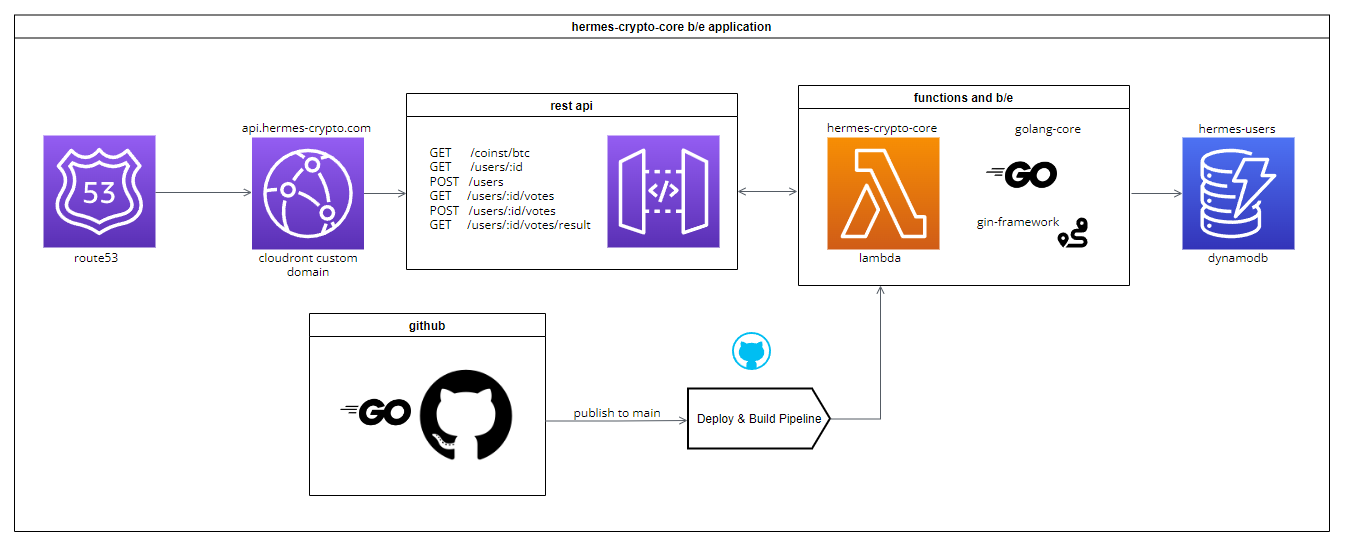
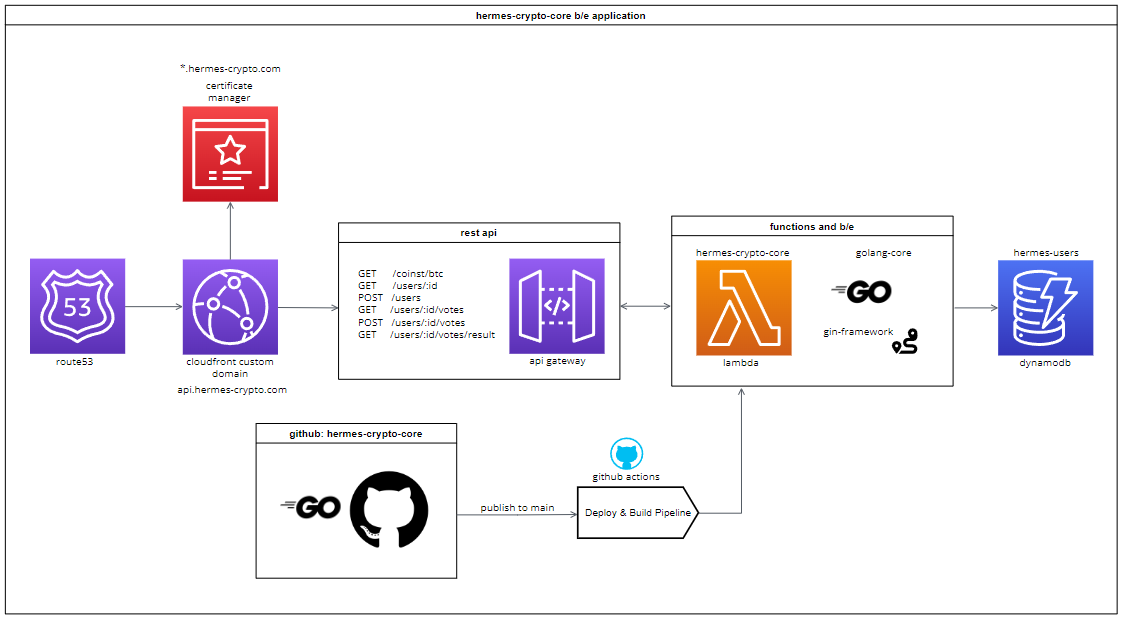
Feature/diagram updates and coin replacement (#6)
* Added the new diagram.
* Updated readme and docs.
* Some updates to the coins API
* Add fallback on API
* Added fallback coin method

diff --git a/internal/handlers/coins/coins.go b/internal/handlers/coins/coins.go
@@ -13,13 +13,30 @@ import (
 
 // GetCurrentBTCCoinValue handles GET requests to retrieve the value for the current Bitcoin coin
 func GetCurrentBTCCoinValueInUSD(c *gin.Context) {
-	currentExchangeRate, err := coin.GetCurrentExchangeRate()
+	currentExchangeRate, err := coin.BinanceGetCurrentExchangeRate()
 	if err != nil {
-		c.JSON(http.StatusFailedDependency, gin.H{"error": "Could not determine current exchange rate", "message": err.Error()})
-		return
+		geckoExchangeRate, err := coin.GeckoGetCurrentExchangeRate()
+		if err != nil {
+			c.JSON(http.StatusFailedDependency, gin.H{"error": "Could not determine current exchange rate", "message": err.Error()})
+			return
+		}
+
+		coinResult := models.CoinResult{
+			Coin:              con.COIN_TYPE_BTC,
+			CoinValue:         *geckoExchangeRate,
+			CoinValueCurrency: con.COIN_CURRENCY_USD,
+			QueryTime:         models.TimestampTime{Time: time.Now()},
+		}
+
+		c.JSON(http.StatusOK, coinResult)
 	}
 
-	coinResult := models.CoinResult{Coin: con.COIN_TYPE_BTC, CoinValue: *currentExchangeRate, CoinValueCurrency: con.COIN_CURRENCY_USD, QueryTime: models.TimestampTime{Time: time.Now()}}
+	coinResult := models.CoinResult{
+		Coin:              con.COIN_TYPE_BTC,
+		CoinValue:         *currentExchangeRate,
+		CoinValueCurrency: con.COIN_CURRENCY_USD,
+		QueryTime:         models.TimestampTime{Time: time.Now()},
+	}
 
 	c.JSON(http.StatusOK, coinResult)
 }

diff --git a/internal/handlers/users/users_test.go b/internal/handlers/users/users_test.go
@@ -35,6 +35,9 @@ func (m *MockDB) GetUserByID(id string) (*models.User, error) {
 
 func (m *MockDB) GetUserByEmail(email string) (*models.User, error) {
 	args := m.Called(email)
+	if args.Get(0) == nil {
+		return nil, nil
+	}
 	return args.Get(0).(*models.User), args.Error(1)
 }
 
@@ -99,11 +102,11 @@ func TestGetUser(t *testing.T) {
 	assert.Equal(t, *mockUser, response)
 }
 
-func TestCreateUser(t *testing.T) {
+func TestCreateExistingUserByEmail(t *testing.T) {
 	r, mockDB := setupTestRouter()
 	r.POST("/users", CreateUser)
 
-	newUser := models.User{Name: "New User", Email: "test@test.com"}
+	newUser := models.User{Id: "188912334", Name: "New User", Email: "test@test.com"}
 	mockDB.On("GetUserByEmail", newUser.Email).Return(&newUser, nil)
 	mockDB.On("CreateUser", newUser).Return(&newUser, nil)
 
@@ -112,11 +115,11 @@ func TestCreateUser(t *testing.T) {
 	req, _ := http.NewRequest("POST", "/users", bytes.NewBuffer(body))
 	r.ServeHTTP(w, req)
 
-	assert.Equal(t, 201, w.Code)
+	assert.Equal(t, 200, w.Code)
 	var response models.User
 	err := json.Unmarshal(w.Body.Bytes(), &response)
 	assert.Nil(t, err)
-	assert.Equal(t, newUser, response)
+	assert.Equal(t, newUser.Id, response.Id)
 }
 
 func TestUpdateUser(t *testing.T) {

diff --git a/internal/coin/coin-binance.go b/internal/coin/coin-binance.go
@@ -1,0 +1,39 @@
+package coin
+
+import (
+	"context"
+	"fmt"
+
+	"os"
+	"strconv"
+	"strings"
+
+	"github.com/adshao/go-binance/v2"
+
+	"hermes-crypto-core/internal/models"
+)
+
+func BinanceGetCurrentExchangeRate() (*float64, error) {
+	apiKey := os.Getenv("BINANCE_API_KEY")
+	apiSecret := os.Getenv("BINANCE_SECRET_KEY")
+	client := binance.NewClient(apiKey, apiSecret)
+
+	prices, err := client.NewListPricesService().Symbol("BTCUSDT").Do(context.Background())
+	if err != nil {
+		fmt.Print("Something went wrong...")
+		return nil, models.ReturnError{ErrorMessage: "Failed to retrieve data from Binance API"}
+	}
+
+	if len(prices) > 0 {
+		priceFloat, err := strconv.ParseFloat(strings.TrimSpace(prices[0].Price), 64)
+		if err != nil {
+			return nil, fmt.Errorf("failed to parse price: %w", err)
+		}
+		fmt.Printf("BINANCE: Current BTC price: $%.2f\n", priceFloat)
+		return &priceFloat, nil
+	} else {
+		fmt.Println("No price data available")
+		zero := 0.0
+		return &zero, nil
+	}
+}

diff --git a/internal/handlers/users/users.go b/internal/handlers/users/users.go
@@ -41,16 +41,20 @@ func CreateUser(c *gin.Context) {
 		c.JSON(http.StatusBadRequest, gin.H{"error": err.Error()})
 		return
 	}
+
 	log.Printf("Checking to see if user already exists by email: %v", newUser.Email)
 	// Check if user already exists by email
 	user, err := db.DB.GetUserByEmail(newUser.Email)
 	if err != nil {
 		log.Printf("Error getting user by email: %v", err)
+		c.JSON(http.StatusInternalServerError, gin.H{"error": "Failed to check existing user"})
 	}
-	log.Printf("We continue on at this point")
+
+	log.Printf("User: %v", user)
+
 	// If user already exists, return the existing user
 	if user != nil {
-		c.JSON(http.StatusCreated, user)
+		c.JSON(http.StatusOK, user)
 		return
 	}
 	log.Printf("We have no user, thus we move")

diff --git a/internal/coin/coin-gecko.go b/internal/coin/coin-gecko.go
@@ -11,7 +11,7 @@ import (
 )
 
 // CoinGeckoService is a service that interacts with the CoinGecko API
-func GetCurrentExchangeRate() (*float64, error) {
+func GeckoGetCurrentExchangeRate() (*float64, error) {
 	apiKey := os.Getenv("GECKO_API_KEY")
 	cgClient := goingecko.NewClient(nil, apiKey)
 	defer cgClient.Close()
@@ -21,7 +21,7 @@ func GetCurrentExchangeRate() (*float64, error) {
 		fmt.Print("Something went wrong...")
 		return nil, models.ReturnError{ErrorMessage: "Failed to retrieve data from CoinGecko API"}
 	}
-	fmt.Printf("Bitcoin price is: %f$", data.MarketData.CurrentPrice.Usd)
+	fmt.Printf("GECKO: Bitcoin price is: %f$", data.MarketData.CurrentPrice.Usd)
 
 	return &data.MarketData.CurrentPrice.Usd, nil
 }

diff --git a/internal/coin/coin.go b/internal/coin/coin.go
@@ -1,0 +1,19 @@
+package coin
+
+import (
+	"hermes-crypto-core/internal/models"
+)
+
+func GetCurrentExchangeRate() (*float64, error) {
+	currentExchangeRate, err := BinanceGetCurrentExchangeRate()
+	if err != nil {
+		geckoExchangeRate, err := GeckoGetCurrentExchangeRate()
+		if err != nil {
+			return nil, models.ReturnError{ErrorMessage: "Could not determine current exchange rate"}
+		}
+
+		return geckoExchangeRate, nil
+	}
+
+	return currentExchangeRate, nil
+}

diff --git a/internal/db/db-dynamo.go b/internal/db/db-dynamo.go
@@ -185,7 +185,7 @@ func (d *dynamoDB) GetUserByID(id string) (*models.User, error) {
 	return &user, nil
 }
 
-// GetUserByID retrieves a specific user by Email
+// GetUserByEmail retrieves a specific user by Email
 func (d *dynamoDB) GetUserByEmail(email string) (*models.User, error) {
 	input := &dynamodb.GetItemInput{
 		TableName: aws.String(tableName),

diff --git a/README.md b/README.md
@@ -23,18 +23,18 @@ This repo contains all the services and core code (and none of the client stuff!
 │   └── handlers                <-- These are our API handlers - they are the glue that keeps things together
 │   └── middleware              <-- Middleware for our API > in this case error handling
 │   └── models                  <-- All models used throughout this app
-│   └── coin                    <-- External services code to interact with Gecko Coin
+│   └── coin                    <-- External services code to interact with Gecko Coin & Binance
 └── main.go                     <-- Lambda function code, our entrypoint
 ```
 
 ### API
-Ultimately, this is an API with all the functionality necessary to run. It follows some `REST`-like principles, and the API itself is split into domains:
+This is an API with all the functionality necessary to run. It follows some `REST`-like principles, and the API itself is split into domains:
 
 #### Users
 The `users` API focusses on all functions relating to users and their votes. Since user and vote entities are tied together, they are both represented by this API together.
 
 #### Coins
-The `coins` API are centered around... You guessed it! Coin prices. This gives us the ability to swap out our 3rd party APIs easily by exposing a set of our own endpoints to our F/E client.
+The `coins` API is centered around... You guessed it! Coin prices. This gives us the ability to swap out our 3rd party APIs easily by exposing a set of our own endpoints to our F/E client.
 
 ## What makes me tick?
 
@@ -42,7 +42,7 @@ Under the hood, I am powered by;
 
 -   [Gin](https://gin-gonic.com/): Gin is a fast, easy to use web-framework perfect for crafting APIs at scale!
 -   [Golang](https://go.dev/): Go is an open-source programming language that is easy to learn, has tons of libraries and is well used and loved.
--   [DynamoDB](https://aws.amazon.com/pm/dynamodb): Following the theme of easy and lightweight, this project makes use of  DynamoDB to keep track of any info.
+-   [DynamoDB](https://aws.amazon.com/pm/dynamodb): Following the theme of easy and lightweight, this project makes use of  DynamoDB to keep track of votes and user information.
 
 # Installation
 
@@ -56,7 +56,7 @@ To properly run this project, assuming you already have git installed, you will 
 -   [AWS CLI](https://docs.aws.amazon.com/cli/latest/userguide/getting-started-install.html): Interacting with any CLI commands will require the installation of AWS CLI.
 -   [AWS SAM CLI](https://docs.aws.amazon.com/serverless-application-model/latest/developerguide/install-sam-cli.html): We will be using the AWS SAM CLI for deploying code. This is also to run our lambda API locally for testing. Currently this has been tested on version `1.121.0`.
 -   [Git](https://git-scm.com/book/en/v2/Getting-Started-Installing-Git): You will also need to install Git (hopefully you have already - but if not now is your chance!).
--   [Docker](https://www.docker.com/): To make things easier, this project has been docker-rized. No more manual db setup, just compose and GO. 
+-   [Docker](https://www.docker.com/): To make things easier, this project has been dockerized. No more manual db setup, just compose and GO. 
 -   [NoSQL Workbench](https://docs.aws.amazon.com/amazondynamodb/latest/developerguide/workbench.html): If you want to connect to your local instance of DynamoDB - use AWS' NoSQL Workbench. For more info on connecting to a local db; check [this](https://medium.com/@bthiban/running-dynamodb-locally-using-docker-68c8bbed29fa) out.
 -   [AWS Lambda runtime interface emulator](https://docs.aws.amazon.com/lambda/latest/dg/go-image.html#go-image-provided): If you want to attempt to run and debug the underlying serverless Lambda architecture, you will need to install the emulator. More info [here](https://github.com/aws/aws-lambda-runtime-interface-emulator?tab=readme-ov-file#installing) as well. Take note of your operating system.
 -   [Make](https://makefiletutorial.com/): Another way to interact with this repo is to make use of... Make! It is still useful, even if this is not a large program.
@@ -66,35 +66,42 @@ To properly run this project, assuming you already have git installed, you will 
 - For multiple versions of Go, have a look here: [Managing Go Installations](https://go.dev/doc/manage-install).
 
 #### Running and Deploying
-There are a few extra steps before getting this project up and running, so follow these steps to do so seamlessly. There is some assumption that you already know how to use go and how to use AWS. Refer to any of the link to help get started if that is not the case.
+There are a few extra steps before getting this project up and running, so follow these steps to do so seamlessly. I assume that you already know how to use Go and how to use AWS. Refer to any of the links above to help get started if that is not the case.
 
 ##### CoinGecko
-To fetch crypto related data, we are currently connected to [`CoinGecko`](https://www.coingecko.com/). You will need to create a free account when testing this locally and replace the `GECKO_API_KEY` environment variable with the API Key from your account.
+One of the ways we fetch crypto related data, is connecting to [`CoinGecko`](https://www.coingecko.com/). You will need to create a free account when testing this locally and replace the `GECKO_API_KEY` environment variable with the API Key from your account.
+
+#### Binance
+We use also use [Binanace](https://www.binance.com/) (currently this is the API we use) as a third-party API to collect current trading data on bitcoin. To setup a test account, follow the steps outlined here to generate an API key which you will use for your own development: https://www.binance.com/en/support/faq/how-to-create-api-keys-on-binance-360002502072?hl=en
+
+For the environment variables below, you may leave both as empty strings as we do not need the api keys or secrets for our current functionality of retrieving prices on their API.
 
 ##### Run locally
 First you will need to setup a `.env` file on project root with the following structure, adding your own values where needed:
-```
+```bash
 # .env file
 # This is all your config
 IS_LOCAL=true
 
 GECKO_API_KEY=[your-key-here]
+BINANCE_API_KEY=[your-key-here]
+BINANCE_SECRET_KEY=[your-secret-here]
 
 AWS_DYNAMODB_REGION=[your-region-here]
 ```
-Keep in mind this will not be committed as part of your code.
+Keep in mind this will not be committed as part of your code. All environment variables here will also need to be configured on your Lambda instance for this app.
 
 #### Setup Environment
 This is where the `Makefile` will come in handy. Depending on if you are on a windows machine (or not - note windows functionality is the only one that has been tested); you can run;
 ```
 make build-windows
 ```
-This will build (and zip) this project as well as kick off a local dynamodb database for you to work with. Some info on this:
+This will build (and zip) this project as well as kick off a local dynamodb database for you to work with as you develop. Some info on this:
 - The zip file can directly be uploaded to [AWS Lambda](https://aws.amazon.com/pm/lambda), with a function configured as a REST API with all your environment variables and roles setup to deploy this manually.
 - It also creates your database, which you can connect on your database GUI using `localhost` and port `1433`.
 
 ##### CAVEAT
-Check out the [Coming Improvements](./docs/improvements.md) document below, currently there is no "seamless" way to run this project and connect it to dynamoDB in one quick command. Therefore for every bit of code and logic added, there also needs to be corresponding tests to ensure code quality.
+Check out the [Coming Improvements](./docs/improvements.md) document below, currently there is no "seamless" way to run this project and connect it to dynamoDB in one quick command. Therefore for every bit of code and logic added, there also need to be corresponding tests to ensure code quality.
 
 ## Architecture
 This whole application has been built to run serverless on AWS Lambda. This diagram gives you a rough idea of what that looks like:
@@ -102,7 +109,7 @@ This whole application has been built to run serverless on AWS Lambda. This diag
 This project is fueled by `gin` and `Go` to keep things going, all whilst currently exposing 2 main domains
 
 ## A Deep Dive
-This `README.md` is only the entry point to getting started with this project but it does not give you the full insight into some of the decisions made NOR about any upcoming work that has been prioritised. If you want to dive into that info, please check out:
+This `README.md` is only the entry point to getting started with this project but it does not give you the full insight into some of the decisions made *nor* about any upcoming work that has been prioritised. If you want to dive into that info, please check out:
 
 -   [Coming Improvements](./docs/improvements.md): This project may "work" but it can always be improved! Have a look at upcoming enhancements and improvements.
 -   [Technical Decisions](./docs/choices.md): This is a "demo" project, thus some decisions were made which is different to when you host a full `prod` application. This is as close as can be in limited time, but this document explains some of those differences.
@@ -123,4 +130,3 @@ We follow the following structure when it comes to adding labels or PRs:
 ## License
 
 [MIT](https://choosealicense.com/licenses/mit/)
-

diff --git a/docs/choices.md b/docs/choices.md
@@ -5,16 +5,16 @@
 Wondering why some technologies were used instead of others? Well here we answer some of those questions.
 
 ## AWS Lambda
-I've decided to go serverless with this project and use AWS Lambda to achieve this. Why, and why do we technically only have 1 function that exposes this whole project?
+I've decided to go serverless with this project and use AWS Lambda to achieve this. Why, and why do we technically only have a single function that exposes this whole project?
 -  It simplifies deployment and management, as we only have one Lambda function to configure, monitor, and update, reducing operational overhead. 
 - This approach also leverages AWS Lambda's automatic scaling, allowing the backend to handle varying levels of traffic without needing manual intervention. 
 - Additionally, by bundling everything into one function, we can take advantage of Go's fast startup times and performance within Lambda's environment, ensuring that your API remains responsive. 
 - Finally, this setup can be cost-effective, as we only pay for the compute time when this function is actually invoked, eliminating the need for maintaining always-on servers.
 
-For a bigger API design, I would perhaps create a Lambda function per API domain, but that was out of scope for the scale of this project currently. On top of that, for the size of this project it is also easier to keep all our functionality in one repo.
+For a bigger API design, I would perhaps create a Lambda function per API domain, but that was out of scope for the scale of this project currently. On top of that, for the size of this project it is also easier to keep all our back-end code in one repo.
 
 ## Using gin
-I am not always in favour of frameworks, bug `go-gin` is incredibly powerful. I use it because;
+I am not always in favour of frameworks, but `go-gin` is incredibly powerful. I use it because:
 - It is a lightweight and high-performance web framework, designed to deliver fast response times and handle a large number of requests efficiently, making it ideal for building APIs and web services. 
 - Its simplicity and minimalism allow us to write clean and concise code, reducing the complexity often associated with web frameworks. 
 - It also provides a comprehensive set of features out-of-the-box, such as routing, middleware support, and JSON validation, which streamline the development process and reduce the need for third-party libraries. For a demo project like this, it means we are able to hit the ground running without sacrificing code quality.
@@ -25,5 +25,5 @@ Most of the data we need to store would make almost more sense to store in a rel
 ## CI/CD
 To keep things simple and easy, as part of this pipeline there are a few main actions:
 - `Drafting Releases`: Release drafter makes our lives easier by automatically drafting releases based on the tags as described in the contribution guide. What it means is that when we are ready to officially create a release version, we don't have to worry about what has changed.
-- `Tests on PR`: Writing & maintaining tests are incredibly important. Writing a test for the same of writing a test is not useful, but it is equally bad to have no tests at all. This action makes it easier for reviewers to check on the quality of code, see if tests were added/changed and help devs give them confidence in the changes they make.
-- `Deploy after merge`: Again, the ability to deploy when actions fire off are powerful. As part of this workflow, when changes are pushed into `main`, we start kicking off a build and deploy of this application to AWS Lambda. In future this script can be changed so that changes to `main` goes to our test environment and changes to something like a `prod` branch goes into the final production environment.
+- `Tests on PR`: Writing & maintaining tests are incredibly important. Writing a test for the sake of writing a test is not useful, but it is equally bad to have no tests at all. This action makes it easier for reviewers to check on the quality of code, see if tests were added/changed and help devs give them confidence in the changes they make.
+- `Deploy after merge`: Again, the ability to deploy when actions fire off is powerful. As part of this workflow, when changes are pushed into `main`, we start kicking off a build and deploy of this application to AWS Lambda. In future this script can be changed so that changes to `main` goes to our test environment and changes to something like a `prod` branch goes into the final production environment.

diff --git a/docs/improvements.md b/docs/improvements.md
@@ -5,7 +5,8 @@
 These improvements are rated quite high in priority as they could affect the functionality of the application to end users.
 
 ### Switch from Gecko > Binance
-Currently we make use of [CoinGecko](https://www.coingecko.com/) to get up to date information on crypto prices. CoinGecko unfortunately have very poor limits on their free plan, thus switching to a 3rd party API such as [Binance](https://www.binance.com/) would be the smart move longer term. Currently when we run out of our total monthly API calls, the app will cease to function as this would cause an error.
+~~Currently we make use of [CoinGecko](https://www.coingecko.com/) to get up to date information on crypto prices. CoinGecko unfortunately have very poor limits on their free plan, thus switching to a 3rd party API such as [Binance](https://www.binance.com/) would be the smart move longer term. Currently when we run out of our total monthly API calls, the app will cease to function as this would cause an error.~~
+This has been implemented.
 
 # Overall Use Improvements
 These are improvements and changes that can be applied that will expose more data to increase the feature set on the F/E or improve overall consistency.
@@ -15,6 +16,9 @@ This involves adding an endpoint that exposes some historical BTC data as well, 
 
 ### Have a server-side trigger for score updates
 Currently scores are updated using an endpoint from the F/E > but if there is a delay it means that we have a delay in processing the score. The solution here would be to implement something like a `webjob` or a queue server-side that checks for any votes that are older than 60 seconds to update them.
+
+### Implementing Auth Flow
+This is a big feature but the goal would be to create a proper auth service with OAuth integration, and use this to create an access token for users to identify themselves when they interact with the API. For this version of the project however, this is out of scope.
 
 # Development Improvements
 Development improvements may not be seen as important as critical, user-facing improvements but adding to any development improvements means better collaboration, better early issue detection as well as maintenance of the codebase which feeds into keeping the list of critical improvements _low_.
@@ -34,4 +38,4 @@ Speaking of making the API more robust, this projects API follows quite a few of
 ### Local Build Scripts
 For this, I want to spend some time to use [SAM](https://aws.amazon.com/serverless/sam/) to help write some scripts so contributing developers can easily setup this project locally, develop and test on it. Currently testing has to be done via deploying this application and ensuring that we update configuration manually.
 
-The ideal would be is to keep this repo, how we run it and how we deploy it as consistent as possible.
+The ideal would be to keep this repo, as well as how we run it and how we deploy it, as consistent as possible.
